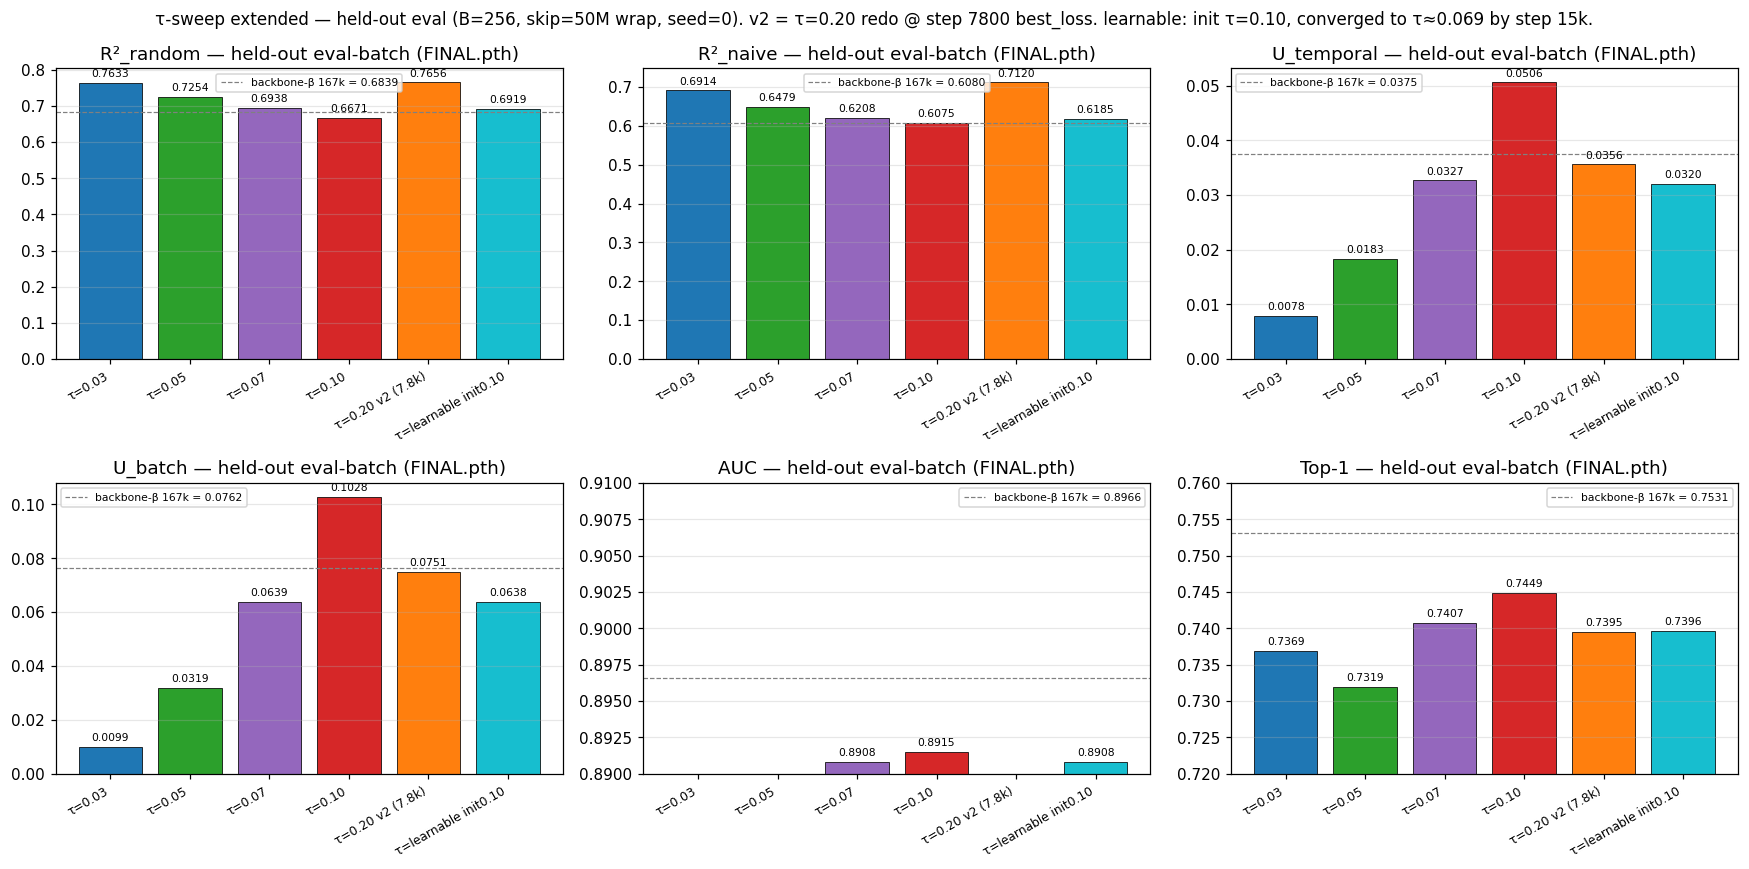
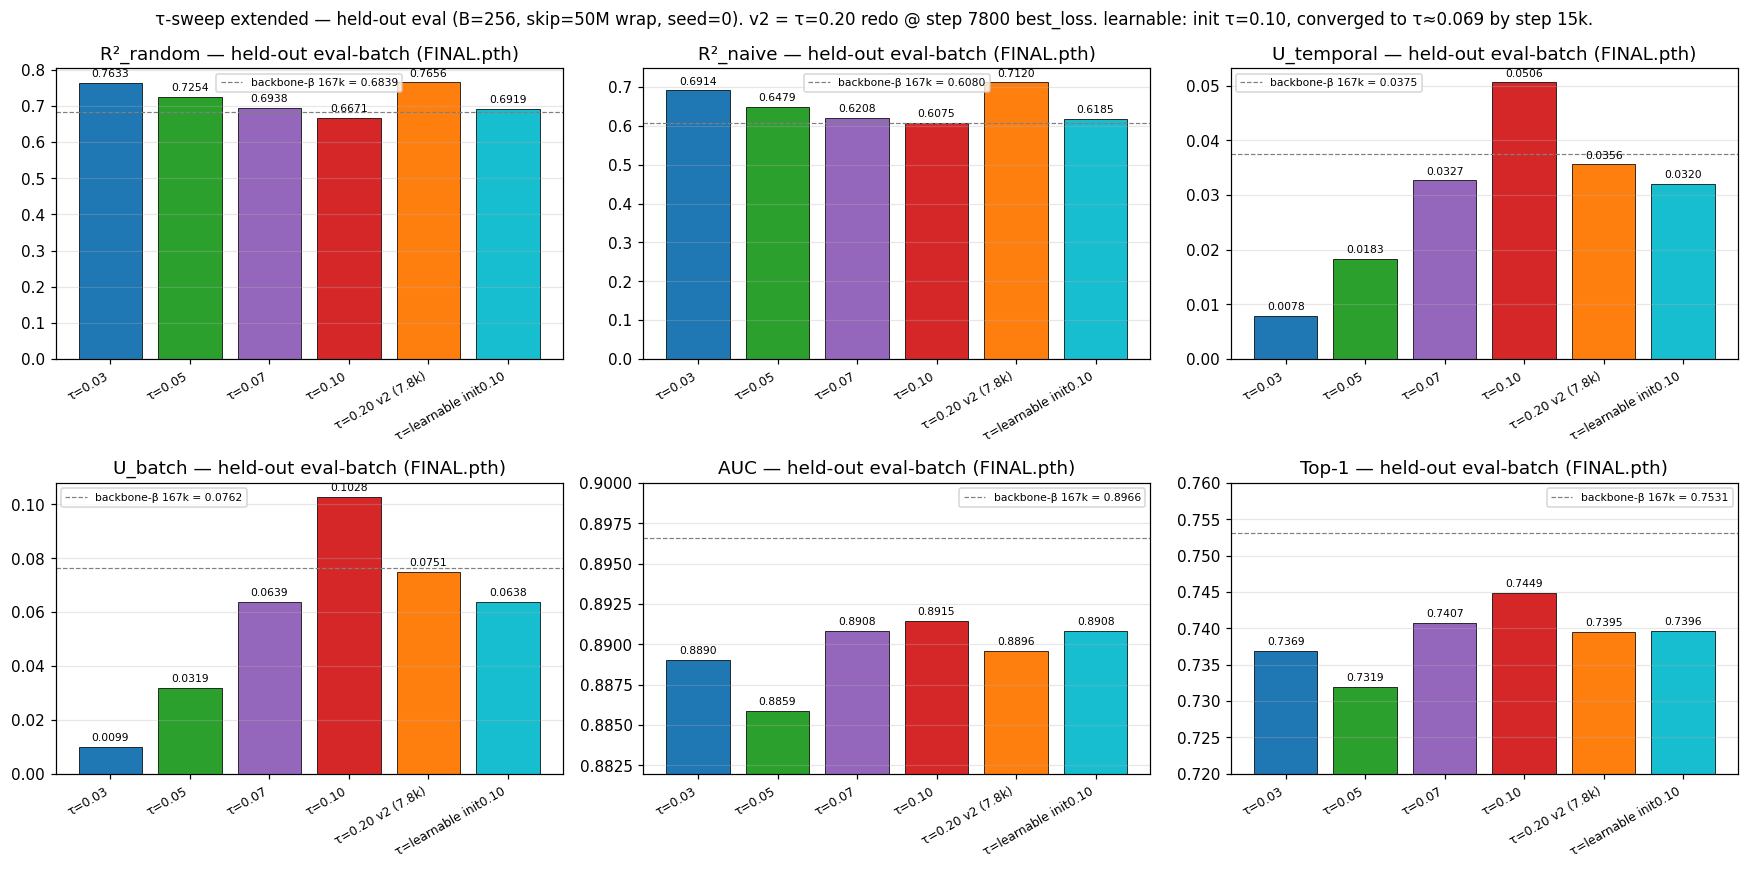
plot(tau-sweep): fix AUC panel visual bug in comparison plot
Widen AUC ylim from (0.89, 0.91) to (0.882, 0.900). The old lower
bound clipped 3 of the 6 bars (τ=0.03 at 0.8890, τ=0.05 at 0.8859,
τ=0.20 v2 at 0.8896) — they fell below 0.89 and either rendered
truncated or were invisible since matplotlib's ax.bar() draws from
y=0 and the lower-bound clipping made them appear empty.

The new ylim covers the data min (0.8859) with margin and the
backbone-β reference (0.8966) with headroom. All 6 bars are now
visible with their f"{y:.4f}" annotations and the dashed reference
line sitting clearly above.

Re-rendered both v2 PNGs (comparison + trajectories — same metrics
list applies to both).

Changed region(s): [[0.3396, 0.5903, 0.6484, 0.901]]

diff --git a/experiments/2026-05-08_exp_tau_sweep/scripts/plot_tau_sweep_v2.py b/experiments/2026-05-08_exp_tau_sweep/scripts/plot_tau_sweep_v2.py
@@ -103,7 +103,7 @@ def main():
         ("r2_naive",  "R²_naive",  None, BETA["r2_naive"]),
         ("u_temporal", "U_temporal", None, BETA["u_temporal"]),
         ("u_batch",   "U_batch",     None, BETA["u_batch"]),
-        ("auc",       "AUC",       (0.89, 0.91),  BETA["auc"]),
+        ("auc",       "AUC",       (0.882, 0.900),  BETA["auc"]),
         ("top1",      "Top-1",     (0.72, 0.76),  BETA["top1"]),
     ]
 
